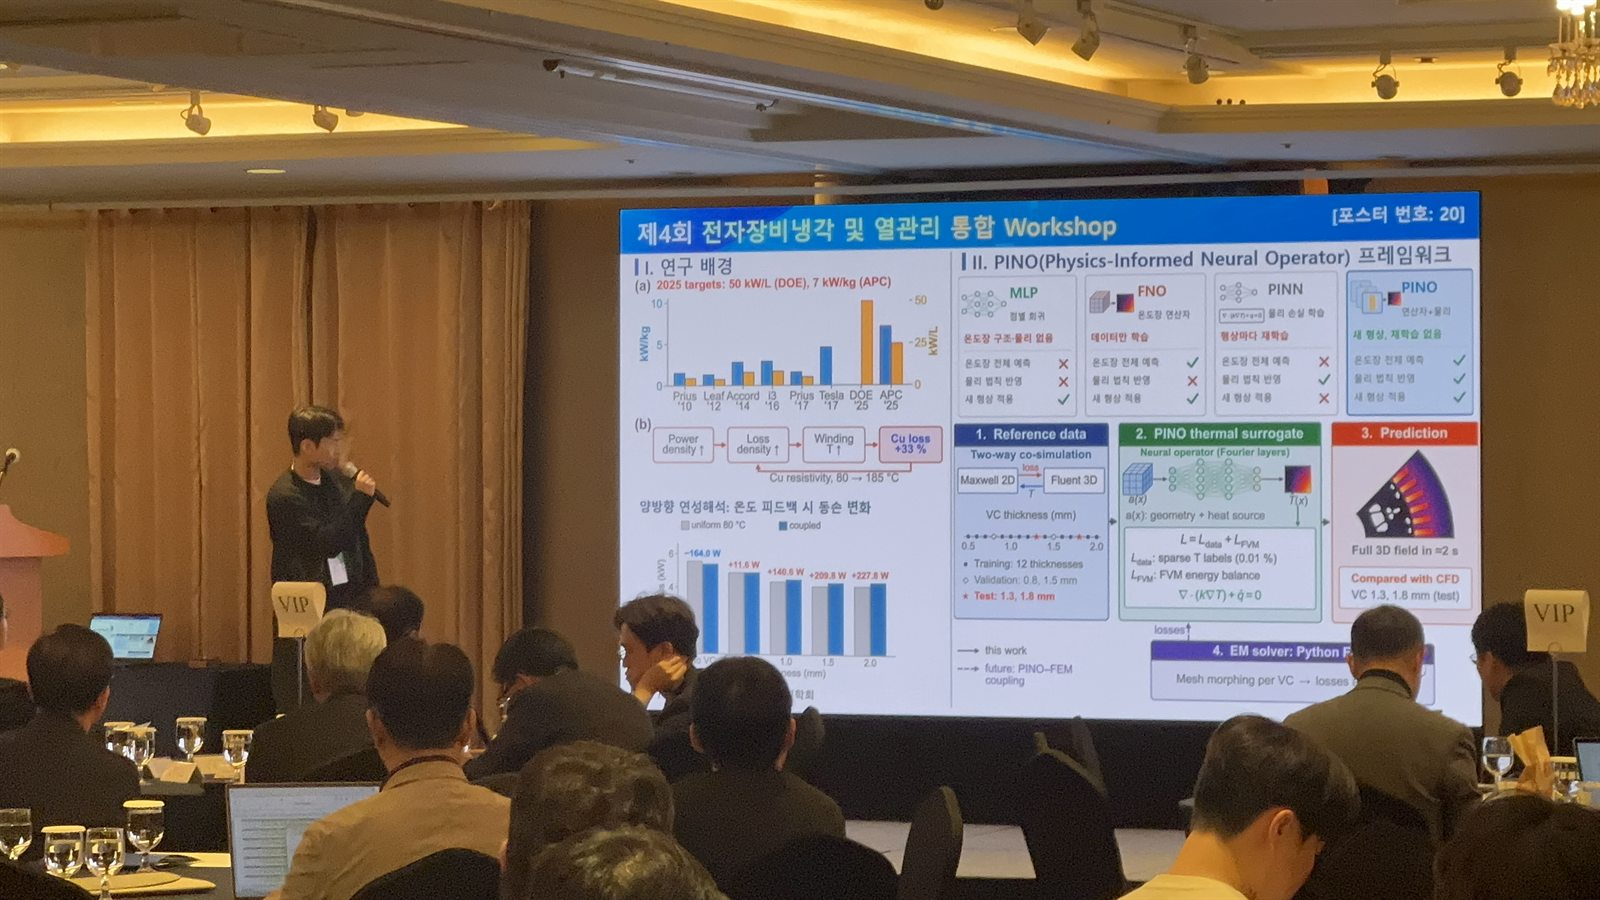
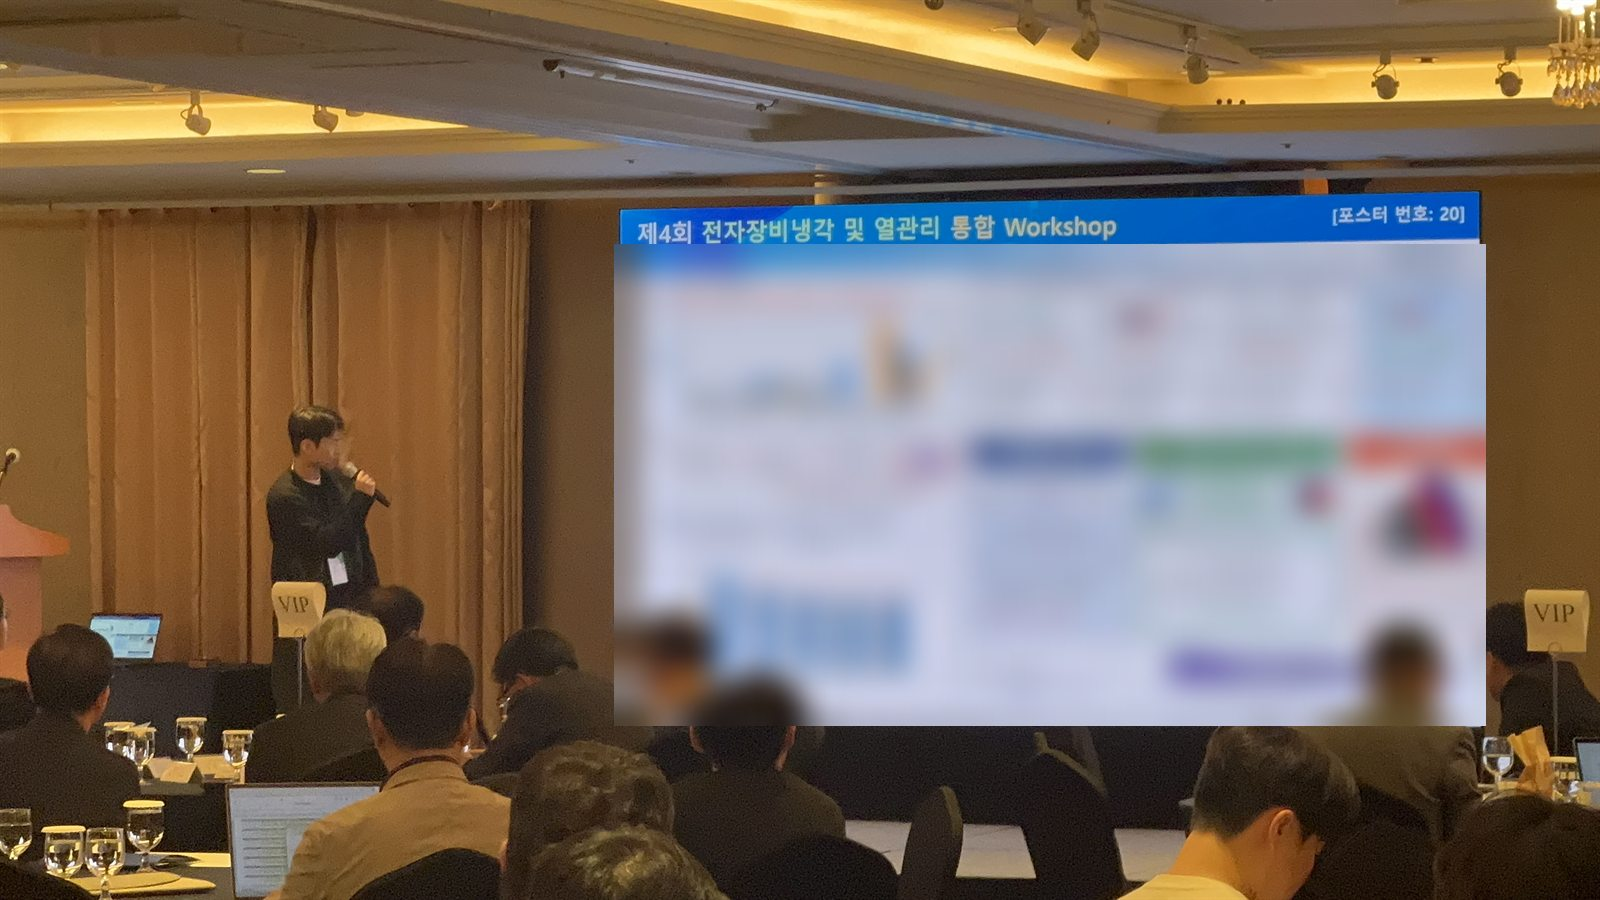
Simplify projects, blur workshop slide, InterPACK group photo, Korean-first recruitment, English tagline

Changed region(s): [[0.375, 0.2489, 0.9375, 0.8089]]

diff --git a/assets/js/main.js b/assets/js/main.js
@@ -85,7 +85,7 @@
     }).join("");
     el.innerHTML =
       '<a class="latest reveal" href="' + newsHref(n) + '">' +
-        '<div class="latest-media">' + (n.images && n.images[0] ? '<img src="' + esc(src(n.images[0])) + '" alt="' + esc(n.title) + '" loading="lazy">' : newsCover(n)) + '</div>' +
+        '<div class="latest-media">' + (n.images && n.images[0] ? '<img src="' + esc(src(n.images[0])) + '" alt="' + esc(n.title) + '" loading="lazy"' + (n.focus ? ' style="object-position:' + esc(n.focus) + '"' : "") + '>' : newsCover(n)) + '</div>' +
         '<div class="latest-body">' +
           '<span class="latest-label"><span class="dot"></span>NEW · Latest News</span>' +
           '<span><span class="tag" data-kind="' + esc(n.tag) + '">' + esc(n.tag) + '</span></span>' +
@@ -105,7 +105,7 @@
       var media = imgs.map(function (p, i) {
         return n.logo
           ? '<div><img src="' + esc(src(p)) + '" alt="' + esc(n.title) + '" loading="lazy"></div>'
-          : '<a href="' + esc(src(p)) + '" data-zoom><img src="' + esc(src(p)) + '" alt="' + esc(n.title) + (imgs.length > 1 ? " (" + (i + 1) + ")" : "") + '" loading="lazy"></a>';
+          : '<a href="' + esc(src(p)) + '" data-zoom><img src="' + esc(src(p)) + '" alt="' + esc(n.title) + (imgs.length > 1 ? " (" + (i + 1) + ")" : "") + '" loading="lazy"' + (i === 0 && n.focus ? ' style="object-position:' + esc(n.focus) + '"' : "") + '></a>';
       }).join("");
       var body = (n.body || []).map(function (p) { return "<p>" + esc(p) + "</p>"; }).join("");
       return '<article class="news-item reveal" id="' + esc(n.id) + '" data-tag="' + esc(n.tag) + '">' +
@@ -168,17 +168,12 @@
   /* ---------- Projects ---------- */
   function renderProjects() {
     var el = $("#projects"); if (!el || !DATA.projects) return;
-    el.innerHTML = '<table><thead><tr><th scope="col">과제명</th><th scope="col">지원기관</th><th scope="col">기간</th><th scope="col" class="amount">연구비*</th><th scope="col">역할</th></tr></thead><tbody>' +
-      DATA.projects.map(function (p) {
-        var lead = /책임/.test(p.role);
-        return '<tr>' +
-          '<td class="p-title">' + esc(p.title) + (p.program ? '<span>' + esc(p.program) + '</span>' : "") + '</td>' +
-          '<td data-label="지원기관">' + esc(p.agency) + '</td>' +
-          '<td class="num" data-label="기간">' + esc(p.period) + '</td>' +
-          '<td class="num amount" data-label="연구비(만원)">' + esc(p.amount) + '</td>' +
-          '<td><span class="role' + (lead ? "" : " alt") + '">' + esc(p.role) + '</span></td>' +
-        '</tr>';
-      }).join("") + '</tbody></table>';
+    el.innerHTML = '<ul class="pj-list">' + DATA.projects.map(function (p) {
+      return '<li><span class="pj-t">' + esc(p.title) + '</span>' +
+        (p.agency ? '<span class="pj-a">' + esc(p.agency) + '</span>' : "") +
+        (p.items && p.items.length ? '<ul class="pj-sub">' + p.items.map(function (s) { return "<li>" + esc(s) + "</li>"; }).join("") + "</ul>" : "") +
+      '</li>';
+    }).join("") + '</ul>';
   }
 
   /* ---------- Publications ---------- */
@@ -272,7 +267,7 @@
         panes.forEach(function (p) { p.hidden = p.getAttribute("data-lang-pane") !== lang; });
       }
       btns.forEach(function (b) { b.addEventListener("click", function () { show(b.getAttribute("data-lang-btn")); }); });
-      show("en");
+      show(box.getAttribute("data-lang-default") || "en");
     });
   }
 

diff --git a/data/projects.js b/data/projects.js
@@ -1,17 +1,21 @@
 /*
- * On-going Projects · 진행 중인 연구과제   (연구비 단위: 만원)
+ * On-going Projects · 진행 중인 연구과제
  * ------------------------------------------------------------------
- *  title   : 과제명          program : 사업/세부 구분
- *  agency  : 지원기관        period  : 기간
- *  amount  : 연구비(만원)     role    : 역할
+ *  title  : 과제명 (짧게)
+ *  agency : 지원기관
+ *  items  : (선택) 하나로 묶어 보여줄 세부 과제 목록 — 예: RISE 사업
+ *
+ * 공개 사이트이므로 연구비·기간·역할은 적지 않습니다.
  */
 window.AITEL = window.AITEL || {};
 window.AITEL.projects = [
-  { title: "영남대학교 신임교원 연구과제", program: "교비연구과제", agency: "영남대학교", period: "25.09. ~ 26.08.", amount: "1,500", role: "연구책임자" },
-  { title: "교육부 자율연구 과제", program: "대구과학고", agency: "교육부", period: "26.03. ~ 26.12.", amount: "700", role: "연구책임자" },
-  { title: "현대자동차 산학 용역과제", program: "산학과제", agency: "현대자동차", period: "26.05. ~ 26.06.", amount: "10,000", role: "연구참여 (중앙대 주관)" },
-  { title: "과학기술정보통신부 기초연구사업", program: "신진연구(유형A)", agency: "한국연구재단", period: "26.03. ~ 29.02.", amount: "10,000/y", role: "연구책임자" },
-  { title: "㈜티케이씨 산학 용역과제", program: "산학과제", agency: "㈜티케이씨", period: "26.05. ~ 27.02.", amount: "5,500", role: "연구책임자" },
-  { title: "RISE 사업 K-혁신랩", program: "지역성장혁신LAB", agency: "교육부(RISE사업단)", period: "26.06. ~ 26.12.", amount: "2,100", role: "연구책임자" },
-  { title: "RISE 사업 IPF 프로젝트랩", program: "메가버시티 융합부품사업", agency: "교육부(RISE사업단)", period: "26.06. ~ 26.12.", amount: "1,000", role: "연구책임자" }
+  { title: "신임교원 연구과제", agency: "영남대학교" },
+  { title: "자율연구 과제 (대구과학고)", agency: "교육부" },
+  { title: "산학 연구과제", agency: "현대자동차" },
+  { title: "기초연구사업 신진연구 (유형A)", agency: "과학기술정보통신부 · 한국연구재단" },
+  { title: "산학 연구과제", agency: "㈜티케이씨" },
+  {
+    title: "RISE 사업", agency: "교육부 · RISE사업단",
+    items: ["K-혁신랩 (지역성장혁신LAB)", "IPF 프로젝트랩 (메가버시티 융합부품사업)"]
+  }
 ];

diff --git a/contact/index.html b/contact/index.html
@@ -43,16 +43,16 @@
     <section class="section">
       <div class="container">
         <div class="contact-grid">
-          <!-- 영어가 기본, '한국어' 탭을 누르면 한국어로 바뀝니다 (data-lang-tabs) -->
-          <div class="panel reveal" data-lang-tabs>
+          <!-- 한국어가 기본, 'EN' 탭을 누르면 영어로 바뀝니다 (data-lang-default="ko") -->
+          <div class="panel reveal" data-lang-tabs data-lang-default="ko">
             <div class="lang-head">
               <span class="lang">Recruitment</span>
               <div class="lang-tabs light" role="tablist" aria-label="Language">
-                <button type="button" role="tab" data-lang-btn="en" aria-selected="true">EN</button>
-                <button type="button" role="tab" data-lang-btn="ko" aria-selected="false">한국어</button>
+                <button type="button" role="tab" data-lang-btn="ko" aria-selected="true">한국어</button>
+                <button type="button" role="tab" data-lang-btn="en" aria-selected="false">EN</button>
               </div>
             </div>
-            <div class="lang-block" data-lang-pane="en" role="tabpanel" lang="en">
+            <div class="lang-block" data-lang-pane="en" role="tabpanel" lang="en" hidden>
               <h3>Join AITEL!</h3>
               <p>We are looking for passionate undergraduate and graduate (M.S./Ph.D.) students to join our team.</p>
               <ul class="kv">
@@ -61,7 +61,7 @@
                 <li><span class="k">Contact</span><span class="v">Email: <a href="mailto:haeunlee@yu.ac.kr">haeunlee@yu.ac.kr</a>, Tel: <a href="tel:+82538103010">+82-53-810-3010</a></span></li>
               </ul>
             </div>
-            <div class="lang-block" data-lang-pane="ko" role="tabpanel" lang="ko" hidden>
+            <div class="lang-block" data-lang-pane="ko" role="tabpanel" lang="ko">
               <h3>AITEL 연구원 모집 (Join AITEL!)</h3>
               <p>AI Thermal &amp; Energy Lab에서 열정적인 학부연구생 및 대학원생(M.S./Ph.D.)을 모집합니다.</p>
               <ul class="kv">

diff --git a/assets/css/style.css b/assets/css/style.css
@@ -554,6 +554,20 @@ figure { margin: 0; }
 .role { display: inline-flex; height: 24px; align-items: center; padding: 0 9px; border-radius: 999px; font-size: 12px; font-weight: 600; background: var(--brand-50); color: var(--brand-600); white-space: nowrap; }
 .role.alt { background: var(--bg-soft); color: var(--muted); }
 .projects-note { font-size: 13px; color: var(--muted); margin-top: 10px; text-align: right; }
+/* 간략한 과제 목록 (과제명 + 지원기관) */
+.pj-list { list-style: none; display: grid; grid-template-columns: repeat(2, minmax(0, 1fr)); }
+.pj-list > li { display: flex; flex-direction: column; gap: 2px; padding: 15px 20px; border-bottom: 1px solid var(--line); }
+.pj-list > li:nth-child(odd) { border-right: 1px solid var(--line); }
+.pj-list > li:last-child, .pj-list > li:nth-last-child(-n+2):nth-child(odd) { border-bottom: 0; }
+.pj-t { font-size: 15px; font-weight: 650; color: var(--ink); line-height: 1.4; }
+.pj-a { font-size: 13.5px; color: var(--muted); }
+.pj-sub { list-style: none; display: flex; flex-wrap: wrap; gap: 6px; margin-top: 8px; }
+.pj-sub li { padding: 3px 10px; border-radius: 999px; background: var(--brand-50); color: var(--brand-600); font-size: 12.5px; font-weight: 600; }
+@media (max-width: 720px) {
+  .pj-list { grid-template-columns: 1fr; }
+  .pj-list > li:nth-child(odd) { border-right: 0; }
+  .pj-list > li:nth-last-child(-n+2):nth-child(odd):not(:last-child) { border-bottom: 1px solid var(--line); }
+}
 @media (max-width: 860px) {
   .projects table, .projects tbody, .projects tr, .projects td { display: block; width: 100%; }
   .projects thead { display: none; }

diff --git a/index.html b/index.html
@@ -10,7 +10,7 @@
   <meta property="og:type" content="website">
   <meta property="og:site_name" content="AITEL · AI Thermal & Energy Lab.">
   <meta property="og:title" content="AITEL · AI Thermal & Energy Lab.">
-  <meta property="og:description" content="AI로 설계하고, 물리로 이해합니다. 영남대학교 AI 기반 열·에너지 연구실">
+  <meta property="og:description" content="Physics-informed AI for thermal & energy systems. 영남대학교 AI 기반 열·에너지 연구실">
   <meta property="og:url" content="https://aitel.yu.ac.kr/">
   <meta property="og:image" content="https://aitel.yu.ac.kr/assets/img/og-image.png">
   <link rel="icon" href="assets/img/favicon.svg" type="image/svg+xml">
@@ -70,7 +70,7 @@
         <div class="intro reveal">
           <div>
             <span class="eyebrow">About AITEL</span>
-            <h2>AI로 설계하고,<br>물리로 이해합니다.</h2>
+            <h2>Physics-informed AI<br>for thermal &amp; energy systems.</h2>
           </div>
           <div class="intro-body">
             <p>AITEL은 열전달의 물리적 이해에 AI와 시뮬레이션을 결합해 반도체·모빌리티·에너지 시스템의 냉각과 열설계를 연구합니다.</p>

diff --git a/data/news.js b/data/news.js
@@ -15,6 +15,7 @@
  *  date    : (선택) "2026.07" 같은 날짜. 비워두면 표시 안 함
  *  cover   : (선택) 사진이 없을 때 사진 자리에 크게 보일 행사명 등
  *  coverSub: (선택) cover 아래 작은 글씨 (장소·날짜 등)
+ *  focus   : (선택) 첫 사진이 잘려 보일 때 보여줄 위치. 예) "50% 88%" = 가운데·아래쪽
  *            → 나중에 사진이 생기면 images 에 넣으면 사진이 대신 보입니다.
  */
 window.AITEL = window.AITEL || {};
@@ -27,6 +28,7 @@ window.AITEL.news = [
     date: "2026.10.26–29",
     body: ["ASME InterPACK 2026(미국 샌디에이고)에 참석하여 박진현 학생과 이하은 교수가 연구 발표를 진행하였습니다."],
     images: ["assets/img/news/2026-interpack-1.jpg", "assets/img/news/2026-interpack-2.jpg"],
+    focus: "50% 88%",
     link: "https://event.asme.org/InterPACK",
     linkLabel: "학회 홈페이지"
   },

diff --git a/research/index.html b/research/index.html
@@ -49,7 +49,6 @@
           </div>
         </div>
         <div class="projects reveal" id="projects"></div>
-        <p class="projects-note">* 연구비 단위: 만원</p>
       </div>
     </section>
 
